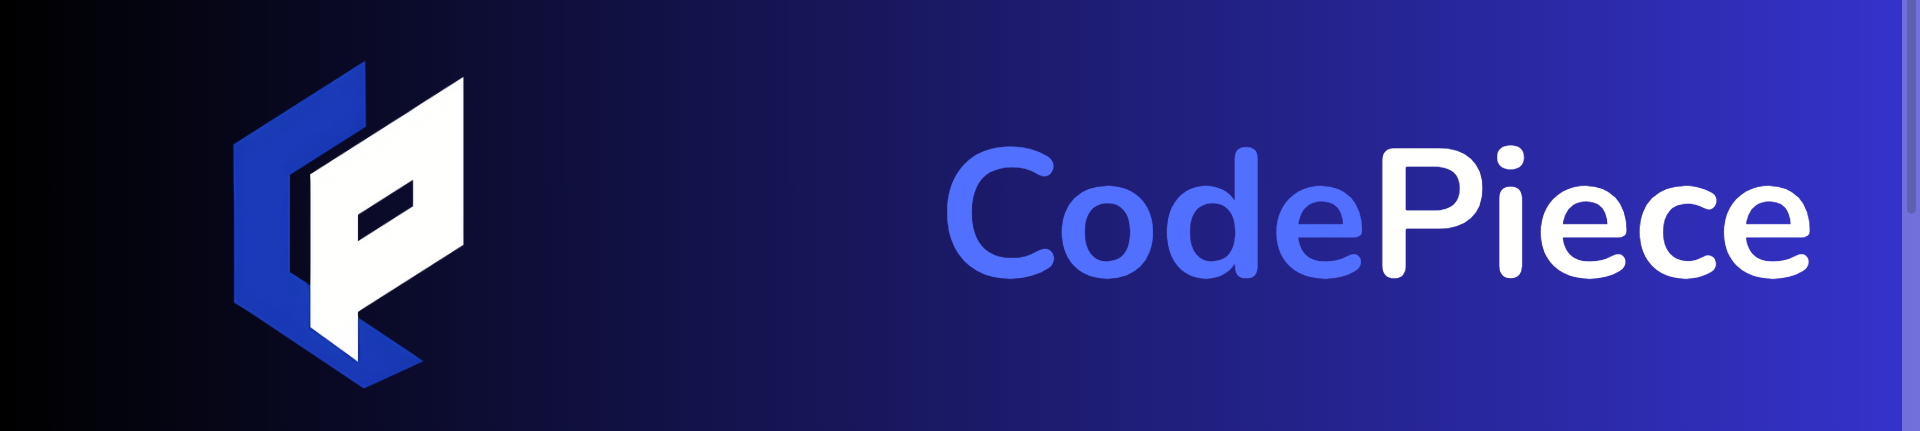
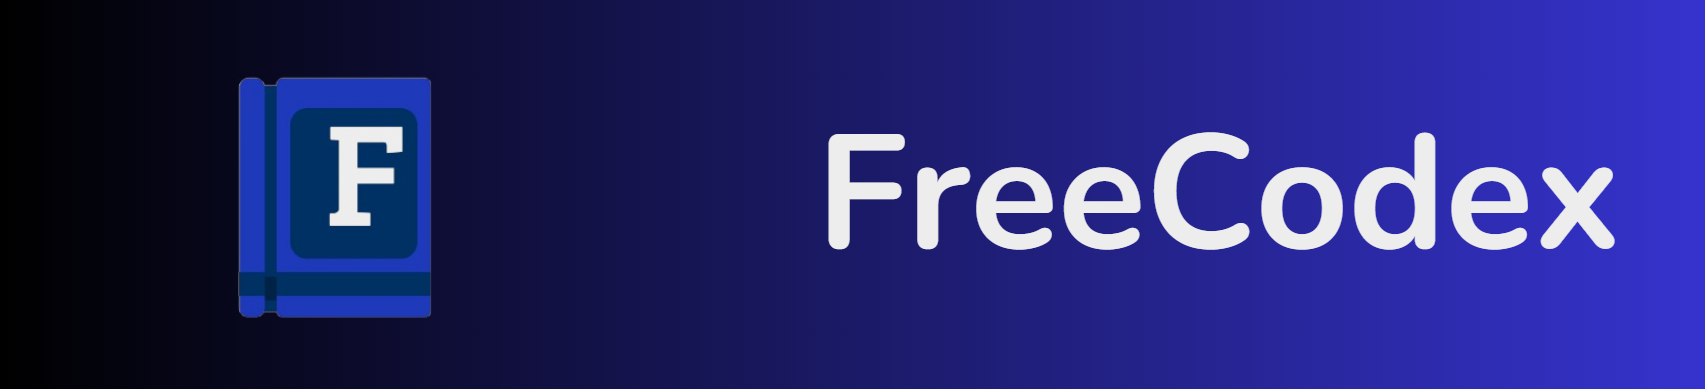
18:55 29/11/2025
Pequenos erros arrumados, logo, nome e nome alterados.

Changed region(s): [[0.4663, 0.0, 1.0, 1.0], [0.1243, 0.1542, 0.2798, 0.8946]]

diff --git a/Src/Views/js/controllerSearch.js b/Src/Views/js/controllerSearch.js
@@ -18,7 +18,7 @@ input.addEventListener('keyup', function(e) {
         } else {
             async function pesquisaCards() {
                 const dados = new URLSearchParams();
-                var typeSearch = (href === 'http://localhost/FreeCodex/index.html' || href.startsWith('http://localhost/FreeCodex/')) ? 'publica' : 'privada';
+                var typeSearch = (window.location.href == 'http://localhost/FreeCodex/index.html' || window.location.href =='http://localhost/FreeCodex/' ? 'publica' : 'privada');
                 dados.append('typeSearch', typeSearch);
                 dados.append('text', termo);
             
